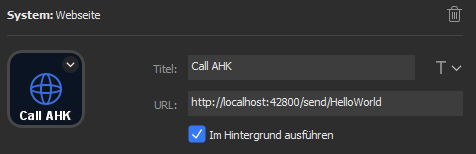
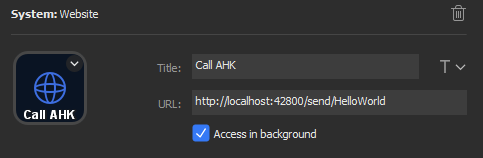
Update streamdeck.PNG

diff --git a/README.md b/README.md
@@ -33,8 +33,6 @@ You can include your own AHK-scripts there and define custom functionality in a 
 
 ![Stream Deck example](streamdeck.PNG)
 
-*(Elgato does not provide a language option? Someone please upload an english version, lol)*
-
 ## Installation
 
 *Note: Requires Windows 10*
